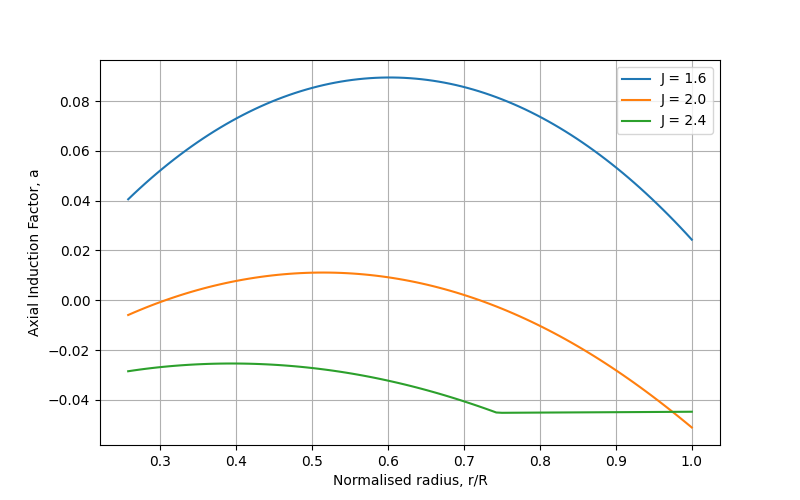
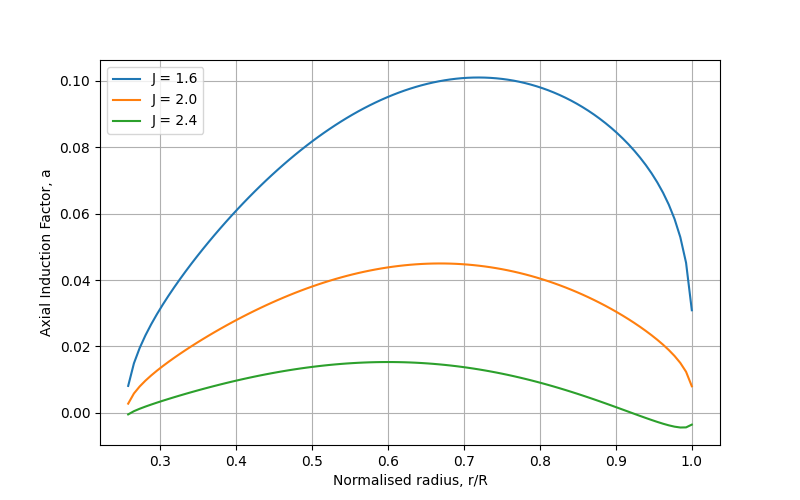
Prandtl Correction

diff --git a/BEM FINAL CODE.py b/BEM FINAL CODE.py
@@ -44,8 +44,8 @@ def BladeElementMethod(Vinf, TSR, n, rho, R, r, root_pos_R, tip_pos_R, dr, Omega
             
             a_new = ((1/2)*(-1+np.sqrt(1+(F_ax * Nb / (rho * Vinf**2 * np.pi * r)))))
             b_new = F_tan * Nb / (2*rho*(2*np.pi*r)*Vinf*(1+a_new)*Omega*r)
-            if (flag==0):
-                a_b4_Pr = a_new
+            #if (flag==0):
+            a_b4_Pr = a_new
             
             F_tot, F_tip, F_root = PrandtlCorrections(Nb, r, R, TSR, a, root_pos_R, tip_pos_R)
             a_new = a_new/F_tot
@@ -263,7 +263,7 @@ plt.ylabel("Prandtl Correction Factor")
 plt.grid(True)
 plt.legend()
 
-plt.close('all')
+# plt.close('all')
 
 # Create 3D figure
 fig = plt.figure(figsize=(10, 6))
@@ -294,7 +294,5 @@ ax.set_zlabel("Twist Effect [m]")
 ax.set_title("3D Blade Geometry")
 
 ax.view_init(elev=20, azim=45)  # Adjust viewing angle
-
-print(chord_values)
 
 plt.show()
